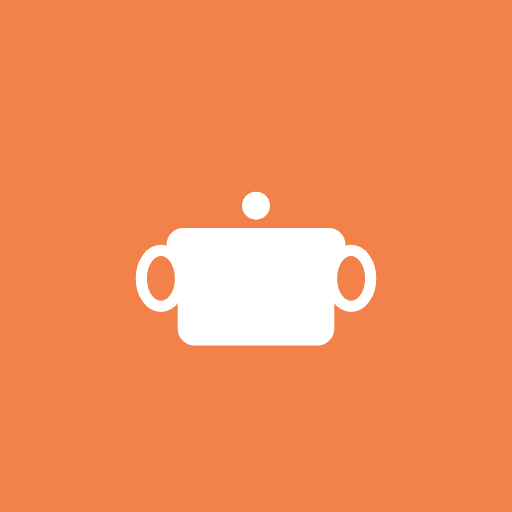
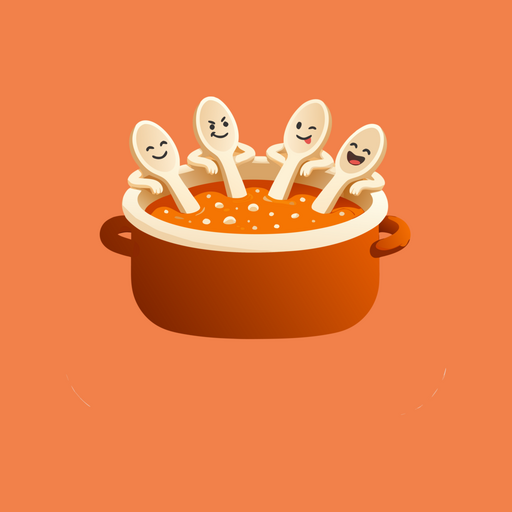
Add files via upload

Changed region(s): [[0.1875, 0.1875, 0.8125, 0.6875]]

diff --git a/src/App.tsx b/src/App.tsx
@@ -1,7 +1,9 @@
+import { useEffect, useState } from 'react'
 import { Routes, Route, Navigate, Outlet } from 'react-router-dom'
 import { repo } from './data'
 import { AuthProvider, useAuth } from './lib/AuthContext'
 import BottomNav from './components/BottomNav'
+import SplashScreen from './components/SplashScreen'
 import StartPage from './pages/StartPage'
 import RecipeListPage from './pages/RecipeListPage'
 import RecipeDetailPage from './pages/RecipeDetailPage'
@@ -16,6 +18,33 @@ import SettingsPage from './pages/SettingsPage'
 import OnboardingPage from './pages/OnboardingPage'
 import SharedRecipePage from './pages/SharedRecipePage'
 import { useOnline } from './lib/useOnline'
+
+const SPLASH_MIN_MS = 700
+const SPLASH_EXIT_MS = 350
+
+/** Zeigt den Splash-Screen mind. SPLASH_MIN_MS lang (fühlt sich wie eine
+ * kurze Öffnen-Animation an, statt bei schnellem Laden nur zu blitzen) und
+ * blendet ihn dann sanft aus, sobald `ready` true wird. */
+function useSplashGate(ready: boolean) {
+  const [startedAt] = useState(() => performance.now())
+  const [visible, setVisible] = useState(true)
+  const [exiting, setExiting] = useState(false)
+
+  useEffect(() => {
+    if (!ready || exiting) return
+    const wait = Math.max(0, SPLASH_MIN_MS - (performance.now() - startedAt))
+    const t = setTimeout(() => setExiting(true), wait)
+    return () => clearTimeout(t)
+  }, [ready, exiting, startedAt])
+
+  useEffect(() => {
+    if (!exiting) return
+    const t = setTimeout(() => setVisible(false), SPLASH_EXIT_MS)
+    return () => clearTimeout(t)
+  }, [exiting])
+
+  return { visible, exiting }
+}
 
 function Shell() {
   const online = useOnline()
@@ -36,16 +65,14 @@ function Shell() {
 
 function Gate() {
   const { authState, loading } = useAuth()
+  const { visible: showSplash, exiting } = useSplashGate(!loading)
 
-  if (loading) {
-    return (
-      <div className="flex min-h-dvh items-center justify-center bg-bg text-cream-soft text-sm">Lädt…</div>
-    )
-  }
-  if (repo.mode === 'cloud' && !authState?.loggedIn) {
-    return <OnboardingPage />
-  }
-  return <Shell />
+  return (
+    <>
+      {showSplash && <SplashScreen exiting={exiting} />}
+      {!loading && (repo.mode === 'cloud' && !authState?.loggedIn ? <OnboardingPage /> : <Shell />)}
+    </>
+  )
 }
 
 export default function App() {

diff --git a/src/components/SplashScreen.tsx b/src/components/SplashScreen.tsx
@@ -1,0 +1,45 @@
+/** Kurze Animation beim Öffnen der App (ähnlich einem nativen App-Splash-Screen):
+ * das Topf-Motiv blendet groß und ohne Icon-Rahmen ein, und ein paar kleine
+ * "Bubble"-Punkte lassen die Suppe im Topf leicht simmern/blubbern. `exiting`
+ * steuert das Ausblenden, sobald die App tatsächlich bereit ist – siehe
+ * useSplashGate in App.tsx. splash-icon.png ist die vom Nutzer gelieferte,
+ * bereits freigestellte Version (transparent, ohne Icon-Kachel/Glow). */
+
+// Position der Blubber-Punkte als Prozent-Koordinaten relativ zur Grafik
+// (in den Lücken zwischen den vier Löffelgriffen, auf Höhe der Suppenoberfläche).
+const BUBBLES = [
+  { left: '13%', top: '32%', size: '2.6%', delay: '-0.2s', duration: '1.9s' },
+  { left: '32.6%', top: '30%', size: '2%', delay: '-1.1s', duration: '2.2s' },
+  { left: '50.7%', top: '33%', size: '2.9%', delay: '-0.6s', duration: '1.7s' },
+  { left: '67.3%', top: '31%', size: '2%', delay: '-1.6s', duration: '2.4s' },
+  { left: '84.6%', top: '32%', size: '2.6%', delay: '-0.9s', duration: '2s' },
+]
+
+export default function SplashScreen({ exiting }: { exiting: boolean }) {
+  return (
+    <div className={`fixed inset-0 z-50 flex flex-col items-center justify-center gap-5 bg-rust-solid ${exiting ? 'splash-exit' : ''}`}>
+      <div
+        className="splash-mark relative w-[82vw] max-w-[420px]"
+        style={{ aspectRatio: '3429 / 2875', filter: 'drop-shadow(0 18px 34px rgba(0,0,0,0.22))' }}
+      >
+        <img src="/splash-icon.png" alt="Löffelbande" className="h-full w-full object-contain" />
+        {BUBBLES.map((b, i) => (
+          <span
+            key={i}
+            className="splash-bubble absolute rounded-full"
+            style={{
+              left: b.left,
+              top: b.top,
+              width: b.size,
+              height: b.size,
+              animationDelay: b.delay,
+              animationDuration: b.duration,
+              background: 'radial-gradient(circle at 35% 30%, rgba(255,255,255,0.95), rgba(255,238,214,0.55) 70%, rgba(255,238,214,0) 100%)',
+            }}
+          />
+        ))}
+      </div>
+      <div className="splash-text text-[20px] font-extrabold tracking-tight text-white">Löffelbande</div>
+    </div>
+  )
+}

diff --git a/src/index.css b/src/index.css
@@ -54,3 +54,40 @@ input, textarea, select, button {
   -ms-overflow-style: none;
   scrollbar-width: none;
 }
+
+/* ---- App-Start: Splash-Animation ---- */
+@keyframes splash-mark-in {
+  0% { opacity: 0; transform: scale(0.72); }
+  60% { opacity: 1; transform: scale(1.06); }
+  100% { opacity: 1; transform: scale(1); }
+}
+@keyframes splash-text-in {
+  0% { opacity: 0; transform: translateY(6px); }
+  100% { opacity: 1; transform: translateY(0); }
+}
+@keyframes splash-fade-out {
+  from { opacity: 1; }
+  to { opacity: 0; }
+}
+@keyframes splash-bubble {
+  0% { opacity: 0; transform: translateY(0) scale(0.5); }
+  35% { opacity: 0.95; transform: translateY(-15%) scale(1); }
+  75% { opacity: 0.55; transform: translateY(-55%) scale(0.85); }
+  100% { opacity: 0; transform: translateY(-80%) scale(0.55); }
+}
+.splash-mark {
+  animation: splash-mark-in 0.55s cubic-bezier(0.22, 1, 0.36, 1) forwards;
+}
+.splash-text {
+  opacity: 0;
+  animation: splash-text-in 0.5s ease-out 0.25s forwards;
+}
+.splash-exit {
+  animation: splash-fade-out 0.35s ease-in forwards;
+}
+.splash-bubble {
+  opacity: 0;
+  animation-name: splash-bubble;
+  animation-timing-function: ease-out;
+  animation-iteration-count: infinite;
+}

diff --git a/src/components/TopBar.tsx b/src/components/TopBar.tsx
@@ -1,6 +1,6 @@
 import { useNavigate } from 'react-router-dom'
 import { useEffect, useState } from 'react'
-import { BellIcon, GearIcon, LogoMarkIcon } from '../icons'
+import { BellIcon, GearIcon } from '../icons'
 import { IconBtn } from './ui'
 import { repo } from '../data'
 import { useAuth } from '../lib/useAuth'
@@ -11,16 +11,13 @@ export function LogoBadge({ size = 30 }: { size?: number }) {
   useEffect(() => {
     repo.getSettings().then((s) => setLogo(s.logoDataUrl))
   }, [])
-  if (logo) {
-    return <img src={logo} alt="Logo" style={{ width: size, height: size }} className="rounded-[10px] object-cover flex-shrink-0" />
-  }
   return (
-    <div
+    <img
+      src={logo ?? '/pwa-192x192.png'}
+      alt="Logo"
       style={{ width: size, height: size }}
-      className="flex flex-shrink-0 items-center justify-center rounded-[10px] bg-[color-mix(in_srgb,var(--color-rust)_14%,white)] text-rust"
-    >
-      <LogoMarkIcon width={size * 0.5} height={size * 0.5} strokeWidth={2} />
-    </div>
+      className="rounded-[10px] object-cover flex-shrink-0"
+    />
   )
 }
 

diff --git a/index.html b/index.html
@@ -2,8 +2,9 @@
 <html lang="de">
   <head>
     <meta charset="UTF-8" />
-    <link rel="icon" type="image/svg+xml" href="/favicon.svg" />
-    <link rel="apple-touch-icon" href="/pwa-192x192.png" />
+    <link rel="icon" type="image/png" sizes="32x32" href="/favicon-32.png" />
+    <link rel="icon" type="image/png" sizes="64x64" href="/favicon-64.png" />
+    <link rel="apple-touch-icon" href="/apple-touch-icon.png" />
     <meta name="viewport" content="width=device-width, initial-scale=1.0, viewport-fit=cover" />
     <meta name="theme-color" content="#f2814a" />
     <meta name="description" content="Rezepte inventarisieren, katalogisieren, Vorrat & Einkaufsliste verwalten" />

diff --git a/vite.config.ts b/vite.config.ts
@@ -20,7 +20,7 @@ export default defineConfig({
       srcDir: 'src',
       filename: 'sw.ts',
       registerType: 'autoUpdate',
-      includeAssets: ['favicon.svg'],
+      includeAssets: ['favicon-32.png', 'favicon-64.png', 'apple-touch-icon.png'],
       manifest: {
         name: 'Löffelbande',
         short_name: 'Löffelbande',
